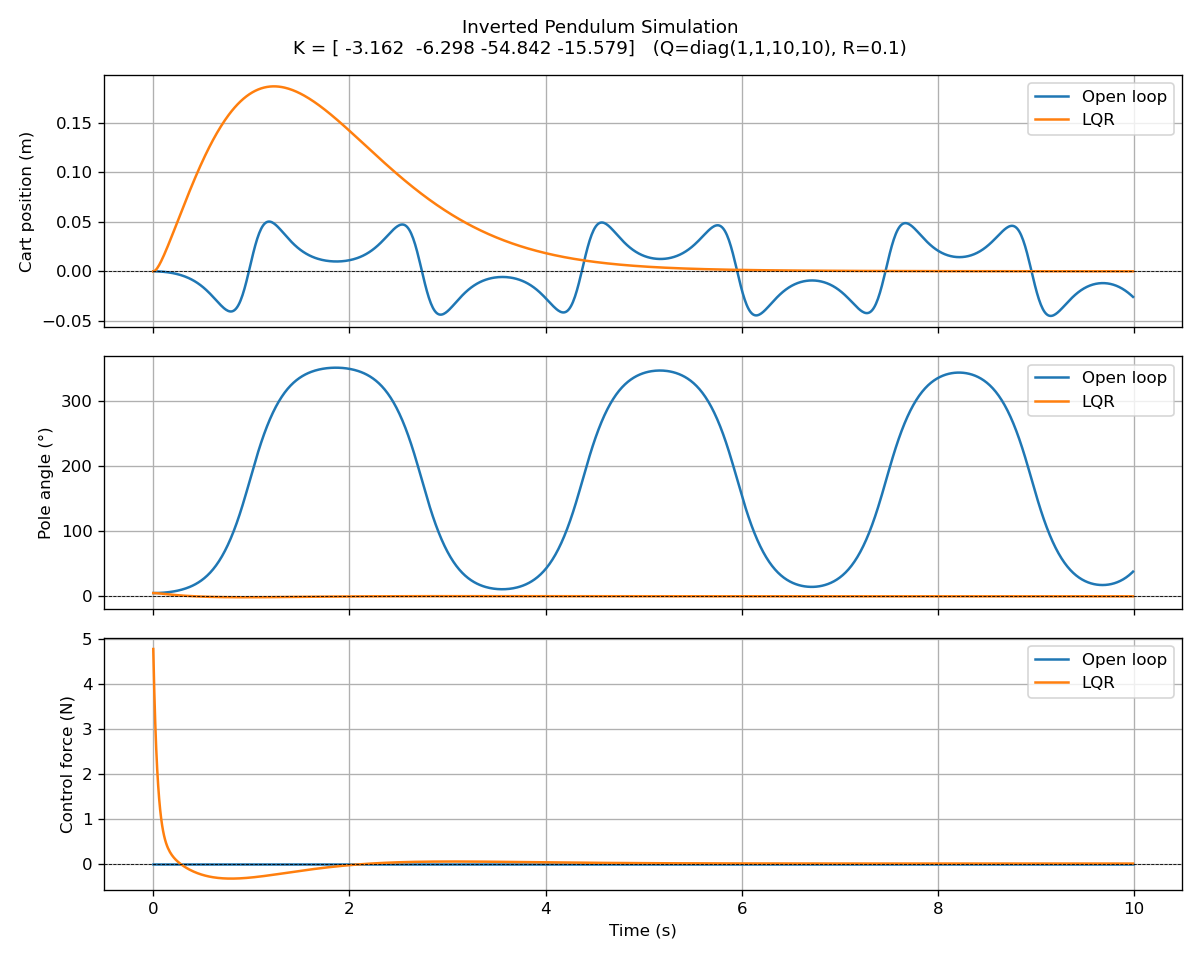
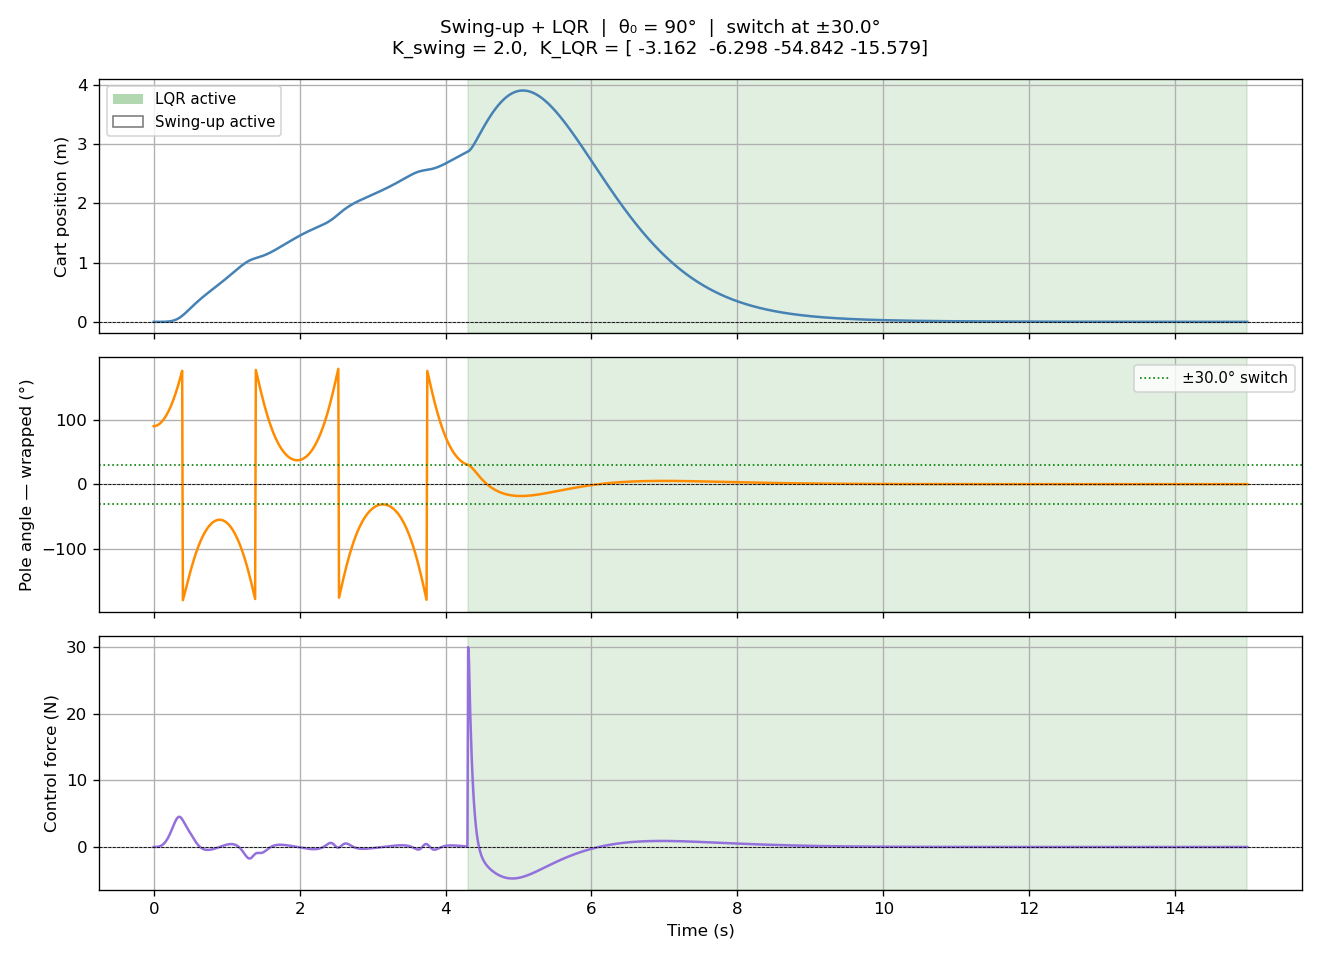
added lqr controller with swing up

diff --git a/inverted-pendulum.html b/inverted-pendulum.html
@@ -82,7 +82,7 @@
   <div class="controls">
     <button id="btnPause">Pause</button>
     <button id="btnReset">Reset</button>
-    <button id="btnLqr" style="background:#059669;color:#fff;padding:8px 22px;border-radius:6px;border:none;cursor:pointer;font-size:.9rem;font-weight:600;">LQR: OFF</button>
+    <button id="btnAuto" style="background:#059669;color:#fff;padding:8px 22px;border-radius:6px;border:none;cursor:pointer;font-size:.9rem;font-weight:600;">Auto: OFF</button>
   </div>
 
   <div class="telemetry">
@@ -92,8 +92,9 @@
     <div class="tel-item"><div class="tel-label">θ (°)</div><div class="tel-value" id="tTheta">5.00</div></div>
     <div class="tel-item"><div class="tel-label">θ̇ (°/s)</div><div class="tel-value" id="tThetad">0.0</div></div>
     <div class="tel-item"><div class="tel-label">F manual (N)</div><div class="tel-value" id="tFManual">0</div></div>
-    <div class="tel-item"><div class="tel-label">F lqr (N)</div><div class="tel-value" id="tFLqr">0</div></div>
+    <div class="tel-item"><div class="tel-label">F auto (N)</div><div class="tel-value" id="tFLqr">0</div></div>
     <div class="tel-item"><div class="tel-label">F total (N)</div><div class="tel-value" id="tForce">0</div></div>
+    <div class="tel-item"><div class="tel-label">Mode</div><div class="tel-value" id="tMode" style="font-size:.85rem;">—</div></div>
   </div>
 
   <div class="charts">
@@ -134,7 +135,7 @@ function rk4(s, F, dt) {
   return s.map((v, i) => v + (dt / 6) * (k1[i] + 2*k2[i] + 2*k3[i] + k4[i]));
 }
 
-function makeInitialState() { return [0, 0, 5 * Math.PI / 180, 0]; }
+function makeInitialState() { return [0, 0, 90 * Math.PI / 180, 0]; }
 
 // ── State ────────────────────────────────────────────────────────────────────
 const DT = 0.01;
@@ -158,16 +159,41 @@ function manualForce() {
   return F;
 }
 
-// LQR gains computed with scipy.linalg.solve_continuous_are
-// Q=diag(1,1,10,10), R=0.1  →  F = -K @ state
-const K_LQR = [-3.1623, -6.2976, -54.8423, -15.5793];
+// ── Angle helper ──────────────────────────────────────────────────────────────
+function wrapAngle(th) {
+  return ((th + Math.PI) % (2 * Math.PI) + 2 * Math.PI) % (2 * Math.PI) - Math.PI;
+}
+
+// ── LQR  (scipy solve_continuous_are, Q=diag(1,1,10,10), R=0.1) ──────────────
+const K_LQR = [-3.1623, -6.2976, -54.8423, -15.5793];  // F = -K @ state
 
 function lqrForce(s) {
-  const F = -(K_LQR[0]*s[0] + K_LQR[1]*s[1] + K_LQR[2]*s[2] + K_LQR[3]*s[3]);
+  const sw = [s[0], s[1], wrapAngle(s[2]), s[3]];  // feed wrapped angle
+  const F  = -(K_LQR[0]*sw[0] + K_LQR[1]*sw[1] + K_LQR[2]*sw[2] + K_LQR[3]*sw[3]);
   return Math.max(-30, Math.min(30, F));
 }
 
-let lqrOn = false;
+// ── Swing-up  (energy-based, Åström-Furuta) ───────────────────────────────────
+const E_UPRIGHT  = P.m * P.g * P.l;   // target energy at upright
+const K_SWINGUP  = 2.0;
+const SWITCH_DEG = 30.0;               // hand-off to LQR within ±30°
+const SWITCH_VEL = 4.0;               // …and angular velocity < 4 rad/s
+
+function swingupForce(s) {
+  const th = s[2], thd = s[3];
+  const E  = 0.5 * P.m * P.l**2 * thd**2 + P.m * P.g * P.l * Math.cos(th);
+  const dE = E - E_UPRIGHT;
+  return Math.max(-30, Math.min(30, K_SWINGUP * thd * Math.cos(th) * dE));
+}
+
+function autoForce(s) {
+  const thw = wrapAngle(s[2]);
+  if (Math.abs(thw) < SWITCH_DEG * Math.PI / 180 && Math.abs(s[3]) < SWITCH_VEL)
+    return { F: lqrForce(s),     mode: 'LQR' };
+  return   { F: swingupForce(s), mode: 'Swing-up' };
+}
+
+let autoOn = false;
 
 let state    = makeInitialState();
 let posHist   = [];
@@ -313,14 +339,18 @@ function tick(ts) {
   lastTs = ts;
   acc += real;
 
-  let Fm = 0, Fl = 0, F = 0;
+  let Fm = 0, Fl = 0, F = 0, currentMode = '—';
 
   while (acc >= DT) {
     acc -= DT;
-    // recompute force every step so the controller always sees current state
     Fm = manualForce();
-    Fl = lqrOn ? lqrForce(state) : 0;
-    F  = Fm + Fl;
+    if (autoOn) {
+      const res = autoForce(state);
+      Fl = res.F;  currentMode = res.mode;
+    } else {
+      Fl = 0;  currentMode = '—';
+    }
+    F = Fm + Fl;
 
     state = rk4(state, F, DT);
     simTime += DT;
@@ -336,6 +366,7 @@ function tick(ts) {
   document.getElementById('tFManual').textContent = Fm.toFixed(1);
   document.getElementById('tFLqr').textContent    = Fl.toFixed(1);
   document.getElementById('tForce').textContent   = F.toFixed(1);
+  document.getElementById('tMode').textContent    = currentMode;
 
   drawSim(state);
   const posMin = Math.min(...posHist, -0.1);
@@ -369,11 +400,11 @@ document.getElementById('btnReset').addEventListener('click', () => {
   updateTelemetry(state, 0);
 });
 
-document.getElementById('btnLqr').addEventListener('click', () => {
-  lqrOn = !lqrOn;
-  const btn = document.getElementById('btnLqr');
-  btn.textContent = lqrOn ? 'LQR: ON' : 'LQR: OFF';
-  btn.style.background = lqrOn ? '#dc2626' : '#059669';
+document.getElementById('btnAuto').addEventListener('click', () => {
+  autoOn = !autoOn;
+  const btn = document.getElementById('btnAuto');
+  btn.textContent = autoOn ? 'Auto: ON' : 'Auto: OFF';
+  btn.style.background = autoOn ? '#dc2626' : '#059669';
 });
 
 // ── Start ─────────────────────────────────────────────────────────────────────

diff --git a/simulate_pendulum.py b/simulate_pendulum.py
@@ -10,9 +10,9 @@ g = 9.81   # gravity
 b = 0.1    # cart friction
 
 DT = 0.01  # simulation step (s)
-T  = 10.0  # total time (s)
+T  = 15.0  # total time (s)
 
-x0 = np.array([0.0, 0.0, 5 * np.pi / 180, 0.0])  # same as HTML
+x0 = np.array([0.0, 0.0, 90 * np.pi / 180, 0.0])  # same as HTML
 
 # ── Physics (identical to HTML) ──────────────────────────────────────────────
 def derivatives(state, F):
@@ -31,74 +31,117 @@ def rk4(state, F, dt):
     k4 = derivatives(state + dt*k3, F)
     return state + (dt/6)*(k1 + 2*k2 + 2*k3 + k4)
 
-# ── Linearised system around theta=0 (upright) ───────────────────────────────
-A = np.array([
+# ── LQR (linearised around upright, theta=0) ─────────────────────────────────
+A_lin = np.array([
     [0,       1,               0,  0],
     [0,    -b/M,          -m*g/M,  0],
     [0,       0,               0,  1],
     [0,  b/(M*l), (M+m)*g/(M*l),  0]
 ])
-B = np.array([[0], [1/M], [0], [-1/(M*l)]])
+B_lin = np.array([[0], [1/M], [0], [-1/(M*l)]])
 
-print("A =\n", np.round(A, 4))
-print("B =\n", np.round(B, 4))
+Q_lqr = np.diag([1.0, 1.0, 10.0, 10.0])
+R_lqr = np.array([[0.1]])
 
-# ── LQR via scipy ─────────────────────────────────────────────────────────────
-Q = np.diag([1.0, 1.0, 10.0, 10.0])
-R = np.array([[0.1]])
+P_sol = solve_continuous_are(A_lin, B_lin, Q_lqr, R_lqr)
+K     = (np.linalg.inv(R_lqr) @ B_lin.T @ P_sol).flatten()
 
-P  = solve_continuous_are(A, B, Q, R)
-K  = np.linalg.inv(R) @ B.T @ P          # shape (1, 4)
-K  = K.flatten()                          # shape (4,)
+print(f"LQR gains K = {np.round(K, 4)}  (F = -K @ state)")
 
-print(f"\nLQR gains K = {np.round(K, 4)}")
-print("Convention: F = -K @ state   (u = -Kx)")
+def wrap_angle(th):
+    """Wrap angle to [-pi, pi] so LQR sees deviation from upright."""
+    return ((th + np.pi) % (2 * np.pi)) - np.pi
 
 def lqr_force(state):
-    F = -K @ state
-    return np.clip(F, -30, 30)
+    s = state.copy()
+    s[2] = wrap_angle(s[2])   # feed wrapped angle to LQR
+    return float(np.clip(-K @ s, -30, 30))
+
+# ── Swing-up controller (energy-based, Åström-Furuta) ────────────────────────
+E_upright  = m * g * l   # target energy = PE at upright (theta=0, thetadot=0)
+K_SWINGUP  = 2.0         # energy pump gain (lower = smoother, less overshoot)
+SWITCH_DEG = 30.0        # hand-off angle  ±30°
+SWITCH_VEL = 4.0         # hand-off angular velocity threshold (rad/s)
+
+def swingup_force(state):
+    th, thd = state[2], state[3]
+    E  = 0.5 * m * l**2 * thd**2 + m * g * l * np.cos(th)
+    dE = E - E_upright
+    F  = K_SWINGUP * thd * np.cos(th) * dE
+    return float(np.clip(F, -30, 30))
+
+def combined_controller(state):
+    th_wrapped = wrap_angle(state[2])
+    near_upright = abs(th_wrapped) < np.radians(SWITCH_DEG)
+    slow_enough  = abs(state[3]) < SWITCH_VEL
+    if near_upright and slow_enough:
+        return lqr_force(state)
+    return swingup_force(state)
 
 # ── Simulate ──────────────────────────────────────────────────────────────────
-def simulate(controller, label):
+def simulate(controller):
     state = x0.copy()
-    times, xs, thetas, forces = [], [], [], []
+    times, xs, thetas, forces, modes = [], [], [], [], []
     for t in np.arange(0, T, DT):
-        F = controller(state)
+        th_w = wrap_angle(state[2])
+        mode = "LQR" if (abs(th_w) < np.radians(SWITCH_DEG) and abs(state[3]) < SWITCH_VEL) else "Swing-up"
+        F    = controller(state)
         times.append(t)
         xs.append(state[0])
-        thetas.append(np.degrees(state[2]))
+        thetas.append(np.degrees(th_w))   # wrapped angle for display
         forces.append(F)
+        modes.append(mode)
         state = rk4(state, F, DT)
-    return np.array(times), np.array(xs), np.array(thetas), np.array(forces)
+    return (np.array(times), np.array(xs),
+            np.array(thetas), np.array(forces), modes)
 
-t, x_ol, th_ol, f_ol = simulate(lambda s: 0.0,      "Open loop")
-t, x_lq, th_lq, f_lq = simulate(lqr_force,          "LQR")
+t, x_sw, th_sw, f_sw, modes = simulate(combined_controller)
 
 # ── Plot ──────────────────────────────────────────────────────────────────────
-fig, axes = plt.subplots(3, 1, figsize=(10, 8), sharex=True)
-fig.suptitle(f"Inverted Pendulum Simulation\n"
-             f"K = {np.round(K, 3)}   (Q=diag(1,1,10,10), R=0.1)", fontsize=11)
+fig, axes = plt.subplots(3, 1, figsize=(11, 8), sharex=True)
+fig.suptitle(
+    f"Swing-up + LQR  |  θ₀ = 90°  |  switch at ±{SWITCH_DEG}°\n"
+    f"K_swing = {K_SWINGUP},  K_LQR = {np.round(K, 3)}", fontsize=11)
 
-axes[0].plot(t, x_ol,  label="Open loop")
-axes[0].plot(t, x_lq,  label="LQR")
-axes[0].set_ylabel("Cart position (m)")
+# shade regions by mode
+for ax in axes:
+    in_lqr = False
+    t_start = 0
+    for i, mode in enumerate(modes):
+        if mode == "LQR" and not in_lqr:
+            t_start = t[i]; in_lqr = True
+        elif mode != "LQR" and in_lqr:
+            ax.axvspan(t_start, t[i], alpha=0.12, color='green', label='LQR region' if ax is axes[0] else '')
+            in_lqr = False
+    if in_lqr:
+        ax.axvspan(t_start, t[-1], alpha=0.12, color='green')
+
+axes[0].plot(t, x_sw, color='steelblue', lw=1.5)
 axes[0].axhline(0, color='k', lw=0.5, ls='--')
-axes[0].legend(); axes[0].grid(True)
+axes[0].set_ylabel("Cart position (m)")
+axes[0].grid(True)
 
-axes[1].plot(t, th_ol, label="Open loop")
-axes[1].plot(t, th_lq, label="LQR")
-axes[1].set_ylabel("Pole angle (°)")
-axes[1].axhline(0, color='k', lw=0.5, ls='--')
-axes[1].legend(); axes[1].grid(True)
+axes[1].plot(t, th_sw, color='darkorange', lw=1.5)
+axes[1].axhline(0,  color='k', lw=0.5, ls='--')
+axes[1].axhline( SWITCH_DEG, color='green', lw=1, ls=':', label=f'±{SWITCH_DEG}° switch')
+axes[1].axhline(-SWITCH_DEG, color='green', lw=1, ls=':')
+axes[1].set_ylabel("Pole angle — wrapped (°)")
+axes[1].legend(fontsize=9); axes[1].grid(True)
 
-axes[2].plot(t, f_ol,  label="Open loop")
-axes[2].plot(t, f_lq,  label="LQR")
+axes[2].plot(t, f_sw, color='mediumpurple', lw=1.5)
+axes[2].axhline(0, color='k', lw=0.5, ls='--')
 axes[2].set_ylabel("Control force (N)")
 axes[2].set_xlabel("Time (s)")
-axes[2].axhline(0, color='k', lw=0.5, ls='--')
-axes[2].legend(); axes[2].grid(True)
+axes[2].grid(True)
+
+# legend for shading
+from matplotlib.patches import Patch
+axes[0].legend(handles=[
+    Patch(facecolor='green', alpha=0.3, label='LQR active'),
+    Patch(facecolor='white', edgecolor='grey', label='Swing-up active')
+], fontsize=9)
 
 plt.tight_layout()
 plt.savefig("pendulum_sim.png", dpi=120)
 plt.show()
-print("\nPlot saved to pendulum_sim.png")
+print("Plot saved to pendulum_sim.png")